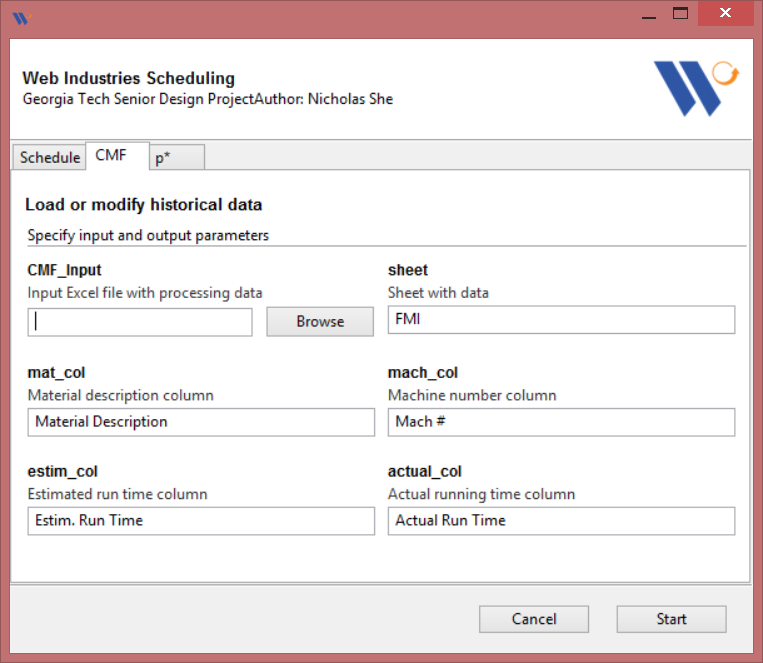
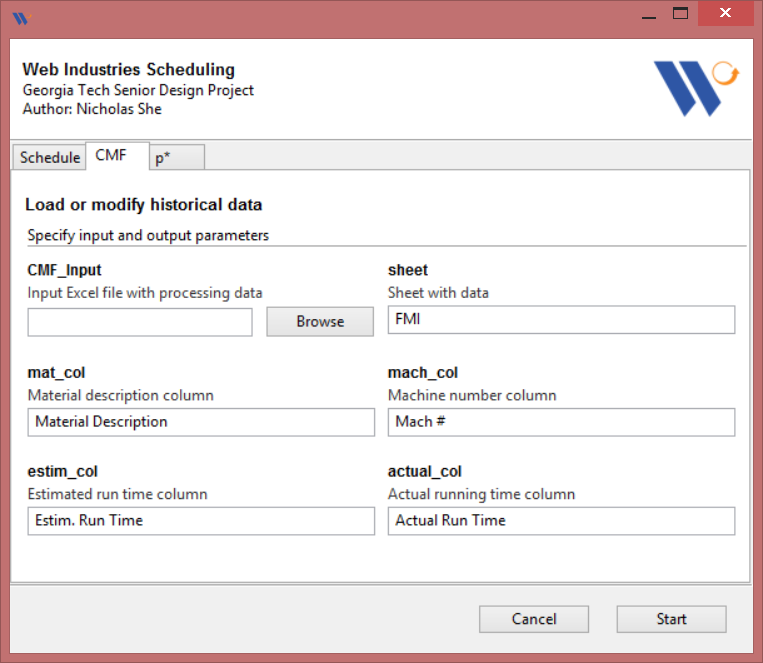
Updated README.md and images

Changed region(s): [[0.0301, 0.0905, 0.5125, 0.181]]

diff --git a/deliverable/driver.py b/deliverable/driver.py
@@ -32,7 +32,7 @@ def main():
     #----------------------------------------------------------------------------
     # Command line arguments.
     # Add a tabbed group for each different program functionality.
-    PARSER = GooeyParser(description = 'Georgia Tech Senior Design Project' \
+    PARSER = GooeyParser(description = 'Georgia Tech Senior Design Project\n' \
                                        'Author: Nicholas She ')
     PARSER.add_argument('--verbose', help='be verbose', dest='verbose',
                         action='store_true', default=False)
@@ -46,7 +46,7 @@ def main():
         "Constrained programming scheduling tool",
         "Specify input and output parameters",
         gooey_options={
-            'show_border': True,
+            'show_border': False,
             'columns': 3})
     io_group.add_argument(
         'Schedule_Input',

diff --git a/README.md b/README.md
@@ -14,109 +14,142 @@ Python 3.6+. Can be installed for your operating system [here](https://www.pytho
 ### Development
 
 Clone the repository with
-```
-git clone https://github.com/nzqs/sdteam17.git
-```
+
+    git clone https://github.com/nzqs/sdteam17.git
 
 It's recommended to use a virtual environment to manage the project packages. Navigate to the project's directory.
 If you are using Conda, create the environment and activate with
-```
-conda create -n envname python=3.6
-source activate envname
-```
+
+    conda create -n envname python=3.6
+    source activate envname
+
 Or use the venv module (Python 3.3+)
-```
-python3 -m venv envname
-```
+
+    python3 -m venv envname
+
 Activate the virtual environment depends on platform.
 Posix:
-```
-$ source envname/bin/activate
-```
+
+    $ source envname/bin/activate
+
 Windows (cmd.exe or PowerShell):
-```
-C:\> envname\Scripts\activate.bat
-PS C:\> envname\Scripts\activate.ps1
-```
+
+    C:\> envname\Scripts\activate.bat
+    PS C:\> envname\Scripts\activate.ps1
+
 
 ### Installing
 wxPython is required to run the graphical user interface. It can be installed with pip
-```
-pip install -U wxPython
-```
+
+    pip install -U wxPython
+
 
 This project also uses Google's OR-Tools. They can also be installed with pip
-```
-pip install --upgrade --user ortools
-```
+
+    pip install --upgrade --user ortools
+
 
 Install the rest of the requirements with
-```
-conda install --yes --file requirements.txt
-```
+
+    conda install --yes --file requirements.txt
+
 or
-```
-pip install -r requirements.txt
-```
+
+    pip install -r requirements.txt
+
 * Some packages may fail to install. Install these manually and remove them from requirements.txt
 
 ### Usage
 
 Run the GUI application with the driver
-```
-python driver.py
-```
 
-## Running the tests
+    python driver.py
 
-Explain how to run the automated tests for this system
 
-### Break down into end to end tests
+## Deliverable Instructions
 
-Explain what these tests test and why
+### Schedule
 
-```
-Give an example
-```
+Input an Excel Spreadsheet with the jobs to be scheduled and output a schedule that minimizes the makespan of all jobs.
 
-### And coding style tests
+<img src="https://github.com/nzqs/sdteam17/blob/master/deliverable/resources/images/GUI%20Schedule%20tab.PNG">
 
-Explain what these tests test and why
+Constrained programming scheduling tool
 
-```
-Give an example
-```
+|Field|Explanation|
+|:----------|--------------------------------------------|
+|Schedule_Input|Input Excel File|
+|write_schedule|Path to write output to|
+|sheet|Name of sheet with the jobs|
+|processing|Column of processing times. Populate this column from the p* tab|
+|WO|Column of Work Orders|
+|set|Column of sets in a Work Order|
+|material|Column of the resin type or material|
+|width|Column of the slit widths|
+|due|Column of due dates|
 
-## Deployment
+Config Options
 
-Add additional notes about how to deploy this on a live system
+|Field|Explanation|
+|:----------|--------------------------------------------|
+|truncate|If Yes, will group sets together in their respective Work Orders, then schedule Work Orders as jobs. The processing time will be the sum of the processing times of the sets. If No, will schedule each set as a job. Using yes will **greatly** speed up solution time|
+|start_time|When to start the first job of the schedule|
+|max_run|Maximum time in seconds to run the tool. If reached, will output the best schedule found up to that point|
+|output_proto|Write the model into a file|
+|preprocess_times|Build minimal setups into the job duration. Keeping this ticked will speed up the tool|
 
-## Built With
+Example run:
 
-* [Dropwizard](http://www.dropwizard.io/1.0.2/docs/) - The web framework used
-* [Maven](https://maven.apache.org/) - Dependency Management
-* [ROME](https://rometools.github.io/rome/) - Used to generate RSS Feeds
+<img src="https://github.com/nzqs/sdteam17/blob/master/deliverable/resources/images/GUI%20Schedule%20Run%20example.PNG?raw=true">
 
-## Contributing
+### CMF
 
-Please read [CONTRIBUTING.md](https://gist.github.com/PurpleBooth/b24679402957c63ec426) for details on our code of conduct, and the process for submitting pull requests to us.
+CMF tab is for inputting historical data to fit empirical mass distributions of processing times for different materials. We use these distributions when calculating optimal allotted processing times in the p* tab.
 
-## Versioning
+<img src="https://github.com/nzqs/sdteam17/blob/master/deliverable/resources/images/GUI%20CMF%20tab.PNG">
 
-We use [SemVer](http://semver.org/) for versioning. For the versions available, see the [tags on this repository](https://github.com/your/project/tags).
+Load or modify historical data
+
+|Field|Explanation|
+|:----------|--------------------------------------------|
+|CMF_Input|Input Excel file containing historical data|
+|sheet|Name of the sheet containing historical data|
+|mat_col|Column of which material or resin jobs were|
+|mach_col|Column of which machine jobs were ran on|
+|estim_col|Column of the estimated processing time used|
+|actual_col|Column of the actual processing time each job took|
+
+The historical data describes the processing times of previous jobs. The unique combination of Machine, Material Type, and Estimated Time determines how the distributions are grouped.
+
+### p*
+
+Calculate a value of p* to use in the schedule. Requires historical data to be loaded. Again, grouped by unique combination of Machine, Material Type, and Estimated Time.
+
+<img src="https://github.com/nzqs/sdteam17/blob/master/deliverable/resources/images/GUI%20pstar%20tab.PNG">
+
+Required Arguments
+
+|Field|Explanation|
+|:----------|--------------------------------------------|
+|theta|Dollar cost per hour of machine downtime|
+|delta|Dollar cost per exceed out incident that fails testing|
+|Material|The material we wish to find allotted processing time for.|
 
 ## Authors
 
-* **Billie Thompson** - *Initial work* - [PurpleBooth](https://github.com/PurpleBooth)
+* **Nicholas She**
 
-See also the list of [contributors](https://github.com/your/project/contributors) who participated in this project.
-
-## License
-
-This project is licensed under the MIT License - see the [LICENSE.md](LICENSE.md) file for details
+In collaboration with
+* *Suyoun Choi*
+* *Camille George*
+* *Jin Soo Kim*
+* *Maryam Moshrefi*
+* *Mallory Herrmann*
 
 ## Acknowledgments
 
-* Hat tip to anyone whose code was used
-* Inspiration
-* etc
+Special thanks to our fantastic advisor
+* **Dr. Gamze Tokol-Goldsman**
+and other Georgia Tech ISYE faculty for their assistance and advice
+* *Dr. Dima Nazzal*
+* *Dr. Chen Zhou*
